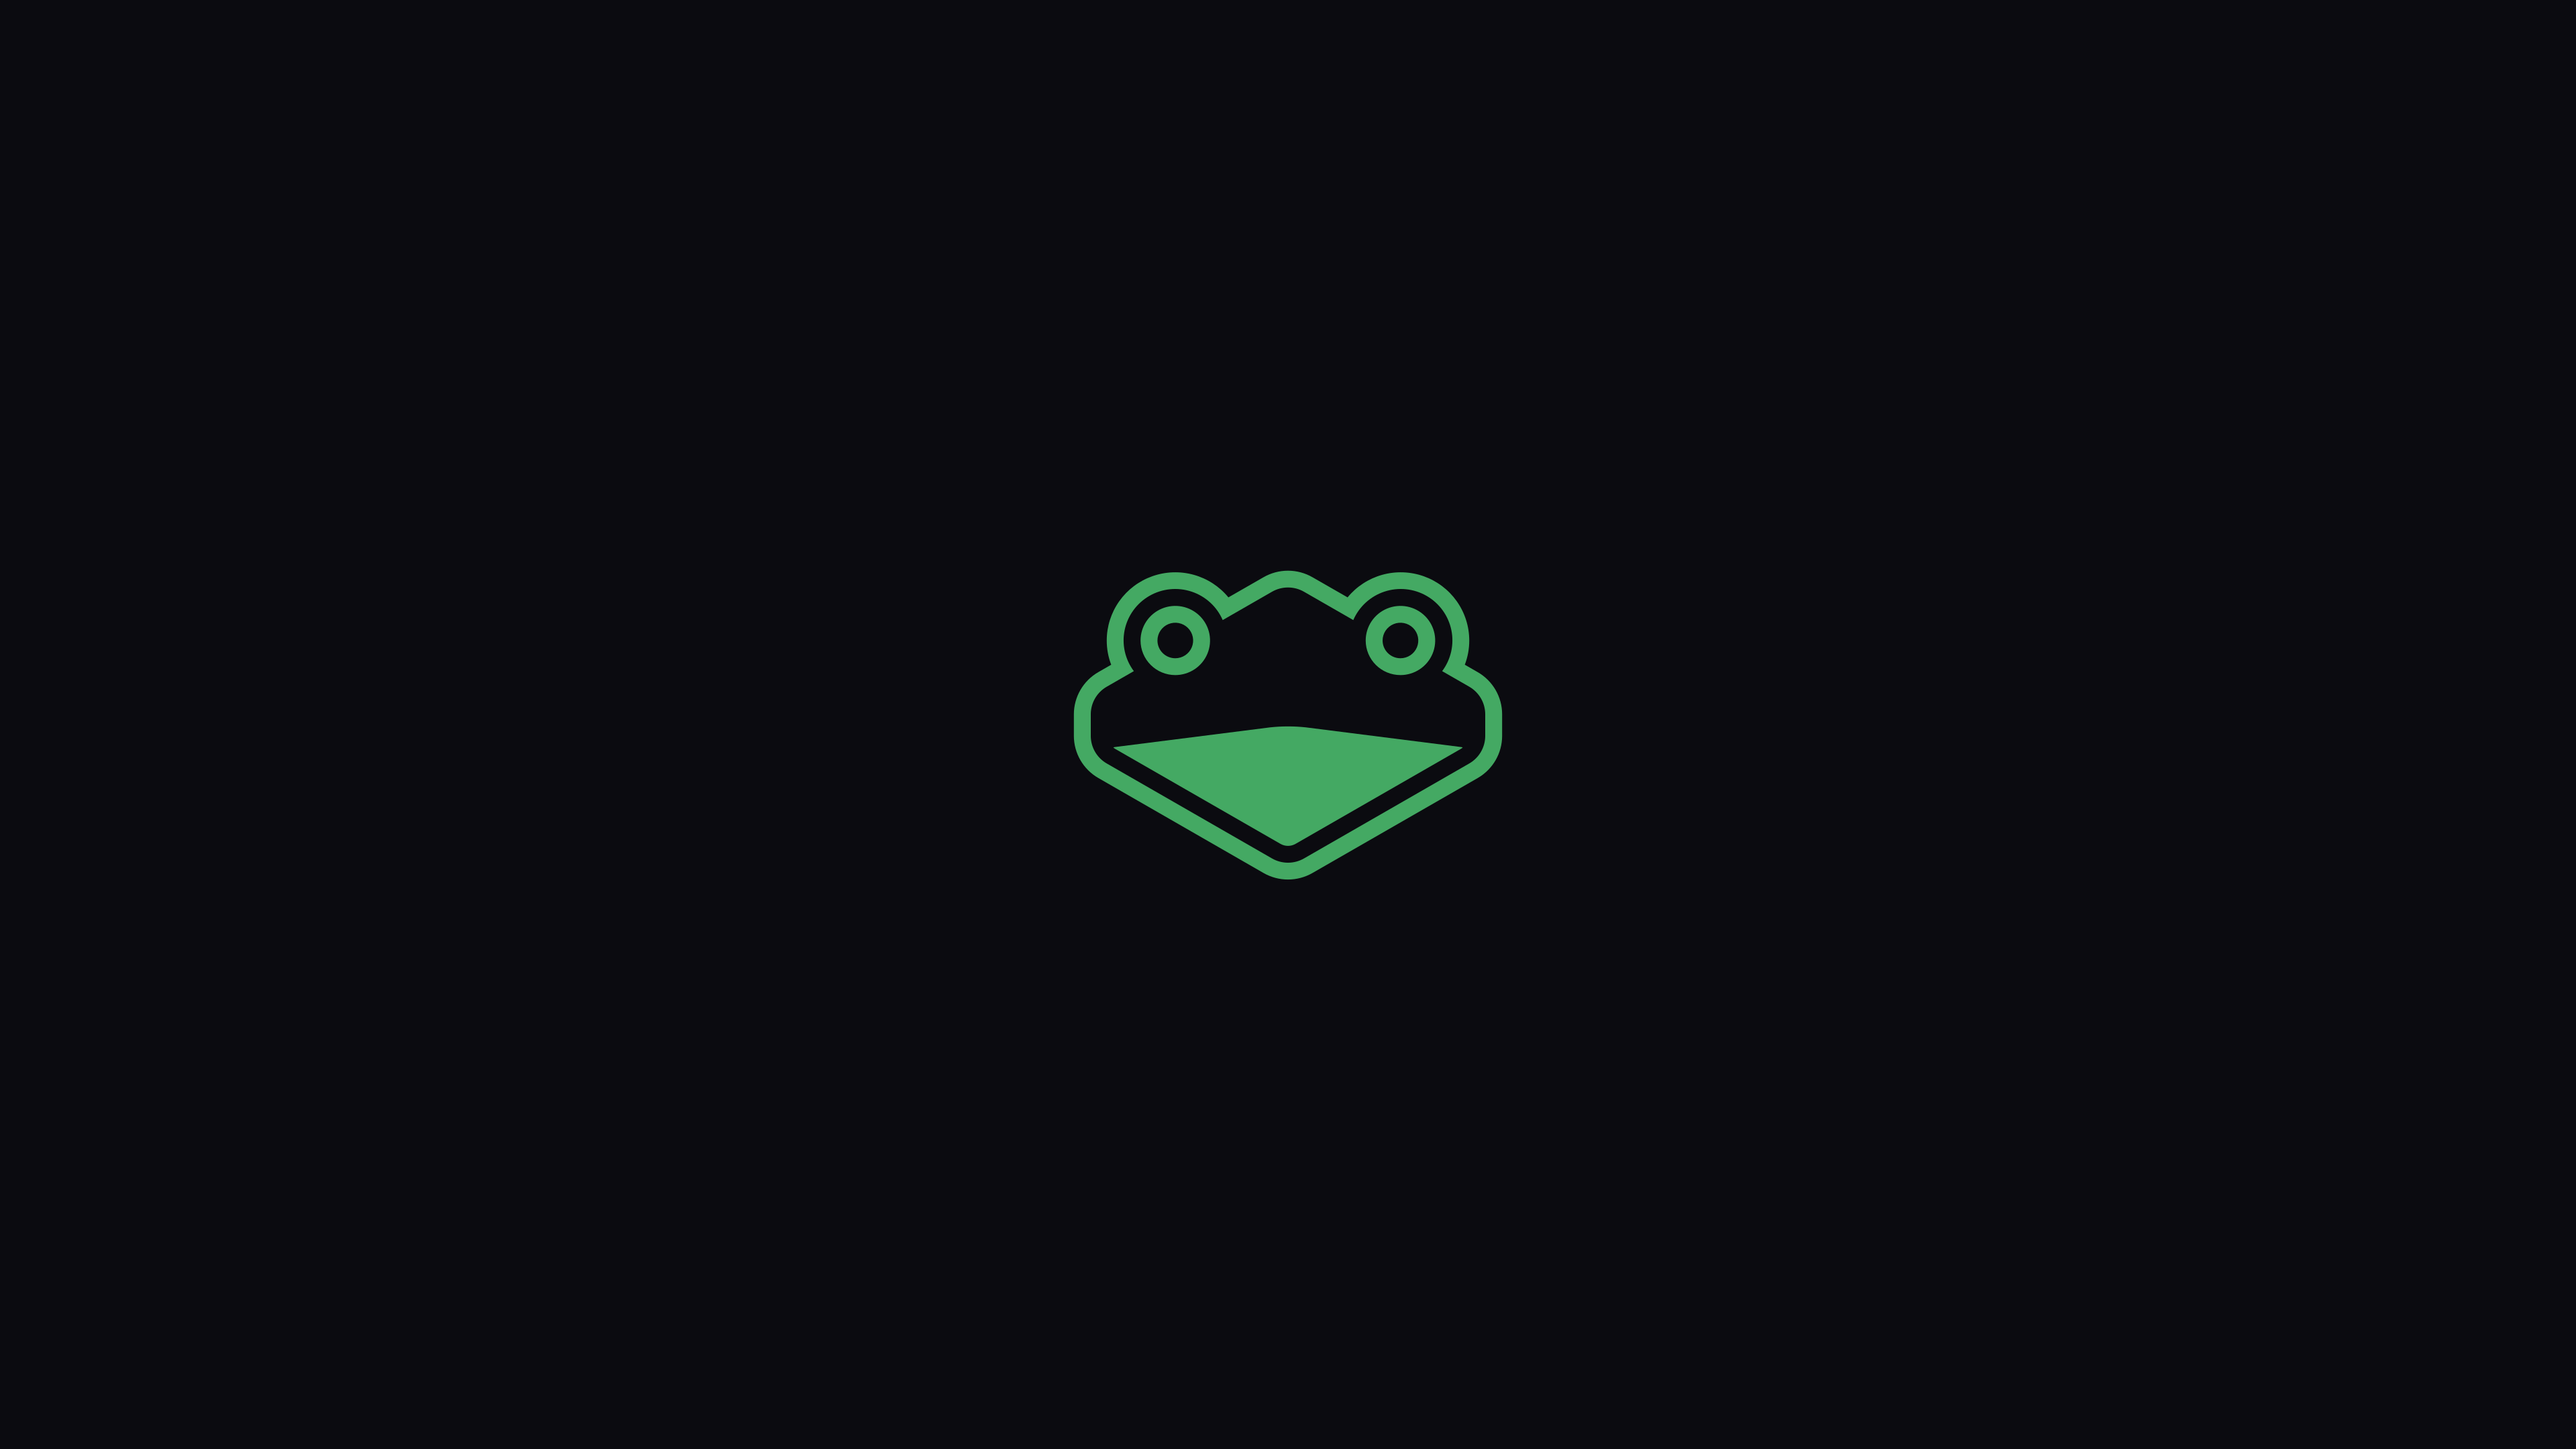
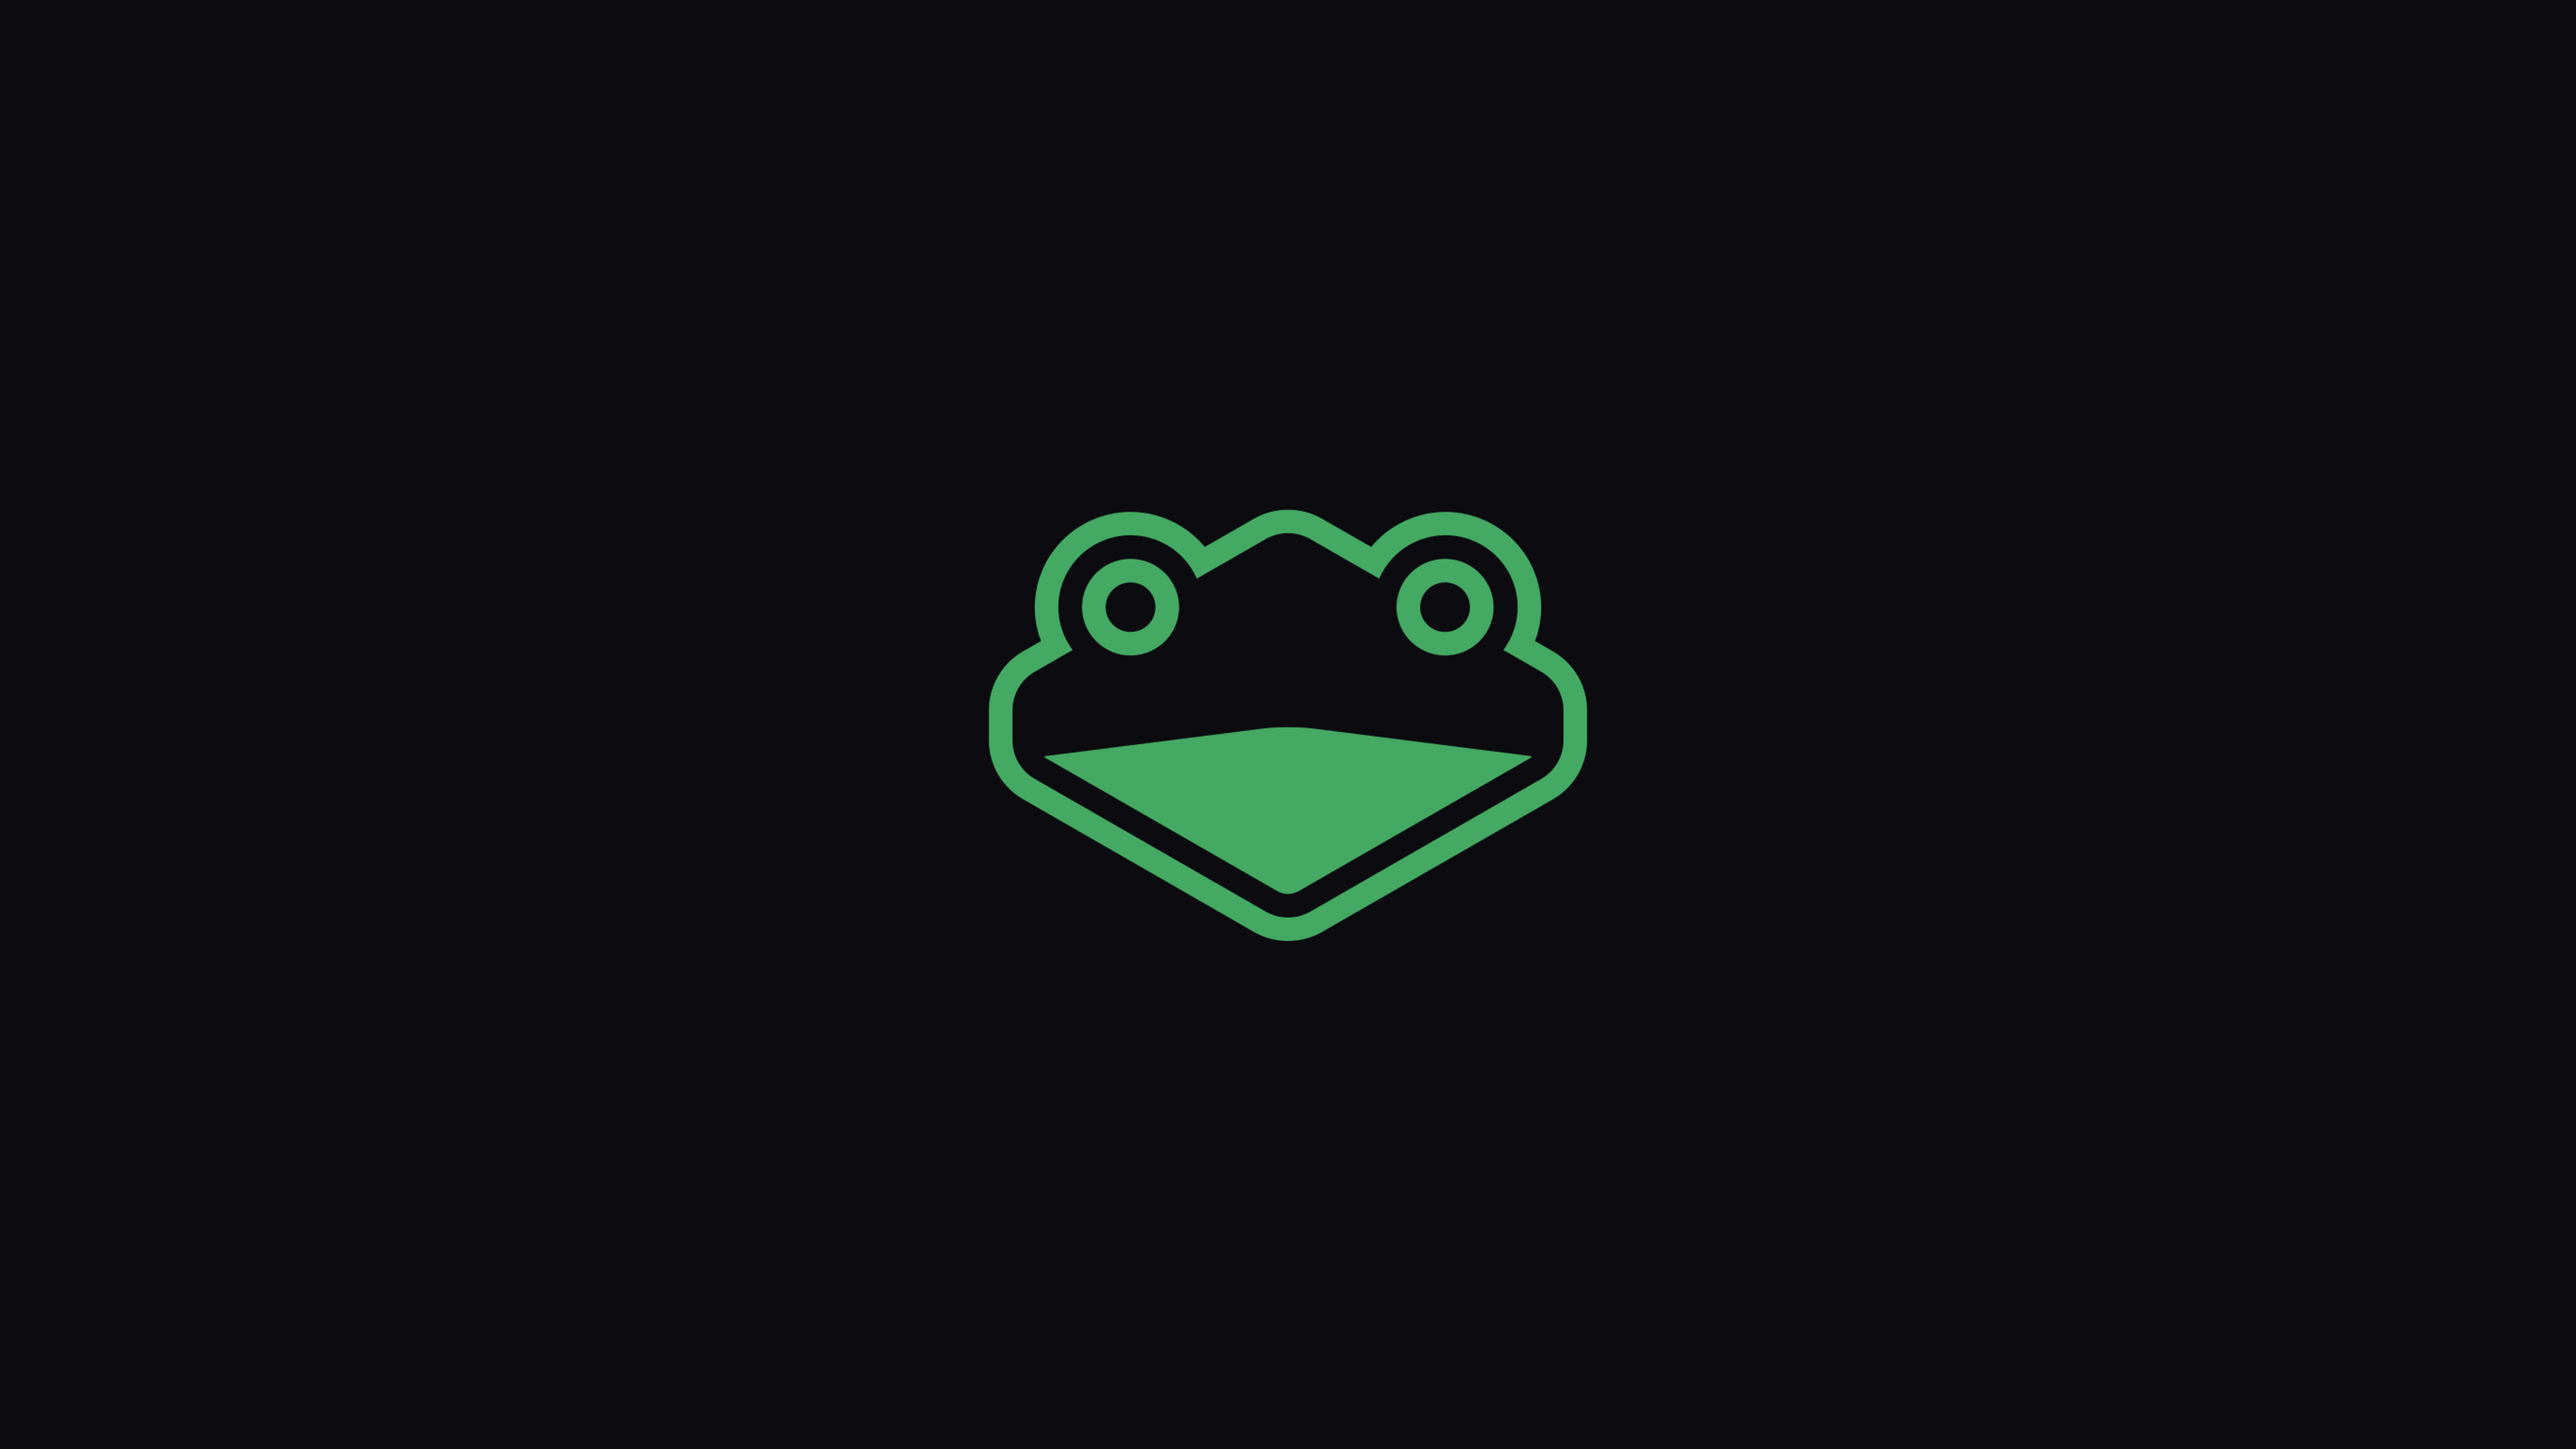
Splash polish and a real dev VM push loop
- Size the Godot boot mark from the viewport (30% high) and keep the pulse.
- Replace the script Plymouth theme with a charge-style two-step theme whose
  24 throbber frames are generated from the Slippi mark; copy the spinner
  dialog assets the plugin expects so it does not fall back to text.
- Stretch the X root boot image to the screen instead of centering it.
- Add a dev-only host module: SSH on 22, throwaway password, /data/dev, and
  a passwordless rule to restart display-manager.
- Prefer /data/dev/slippios{,-shell} in the session wrapper so pushed builds
  run without a new image.
- Add mise dev:ssh/dev:push: build the CLI statically, export the shell, upload
  to temp names (running binaries cannot be overwritten), rename, restart.
- Document the loop and the Dolphin config keys.

Changed region(s): [[0.375, 0.3412, 0.625, 0.6514]]

diff --git a/docs/developers.md b/docs/developers.md
@@ -23,6 +23,8 @@ mise run dev:env        # local sandbox under ~/.cache/slippios/dev
 mise run dev:cli -- status   # CLI against that sandbox
 mise run dev:web        # setup page against that sandbox
 mise run dev:shell      # exported shell against that sandbox (needs GL)
+mise run dev:ssh        # SSH into the running dev VM
+mise run dev:push       # build CLI + shell and push them into the dev VM
 mise run run:image      # boot the local USB image
 mise run stop:image     # clean ACPI power-off of that VM
 mise run fetch:image    # download the latest published USB image
@@ -55,6 +57,21 @@ improving the appliance.
 - Full image and update slot must stay below GitHub's 2 GiB per-asset limit.
   Compression only matters for published images, so `build:image-dev` skips it
   (`SLIPPI_DEV=1`). Local boots then use the `.raw` directly.
+
+## Dev VM loop
+
+Build a dev image once with `mise run build:image-dev` and boot it. That image
+enables SSH on port 2222 (`player` / `slippios`) and creates `/data/dev`.
+After that, do not rebuild for application changes:
+
+```sh
+mise run dev:push   # Go CLI + Godot export -> /data/dev, restart lightdm
+mise run dev:ssh    # shell/logs on the VM
+```
+
+The shell wrapper prefers `/data/dev/slippios` and `/data/dev/slippios-shell`
+when they exist, so a pushed build takes effect after the session restart.
+Image changes (NixOS modules, packages) still need `build:image-dev`.
 
 `scripts/dev` builds a throwaway data tree with a tiny fake Melee image
 (`GALE01` header, not a playable disc) and a settings.toml. The CLI, ISO
@@ -162,15 +179,23 @@ anything the curated list does not cover (controller bindings, profiles).
 
 ## Boot splash
 
-Plymouth shows `assets/plymouth/slippios.script` with the shared mark. When the
-session starts, the openbox autostart paints `apps/shell/assets/slippi-boot.png`
-on the X root window before Godot starts, so the handoff shows the same mark
-instead of a blank screen. X's own modeset still flashes black for about half a
-second; removing that needs a direct X start with a controlled VT switch.
+Plymouth uses a charge-style `two-step` theme: `modules/slippios.nix` renders 24
+throbber frames from the mark with a sine opacity, and the C throbber plugin
+animates them over two seconds. This avoids the script plugin's refresh
+callback, which did not animate in QEMU's frame-buffer fallback.
 
-The Godot splash pulses the same mark. `assets/branding/` holds the temporary
-Slippi mark and how to regenerate the raster assets; replace it when the
-SlippiOS mark exists.
+Plymouth frames are a fixed 324 px high (30% of 1080p), because two-step themes
+cannot scale per display. The Godot splash does scale: it sizes the mark to 30%
+of the screen height and pulses it.
+
+When the session starts, the openbox autostart paints
+`apps/shell/assets/slippi-boot.png` on the X root window before Godot starts, so
+the handoff shows the same mark instead of a blank screen. X's own modeset still
+flashes black for about half a second; removing that needs a direct X start with
+a controlled VT switch.
+
+`assets/branding/` holds the temporary Slippi mark and how to regenerate the
+raster assets; replace it when the SlippiOS mark exists.
 
 ## Dolphin AppImage
 
